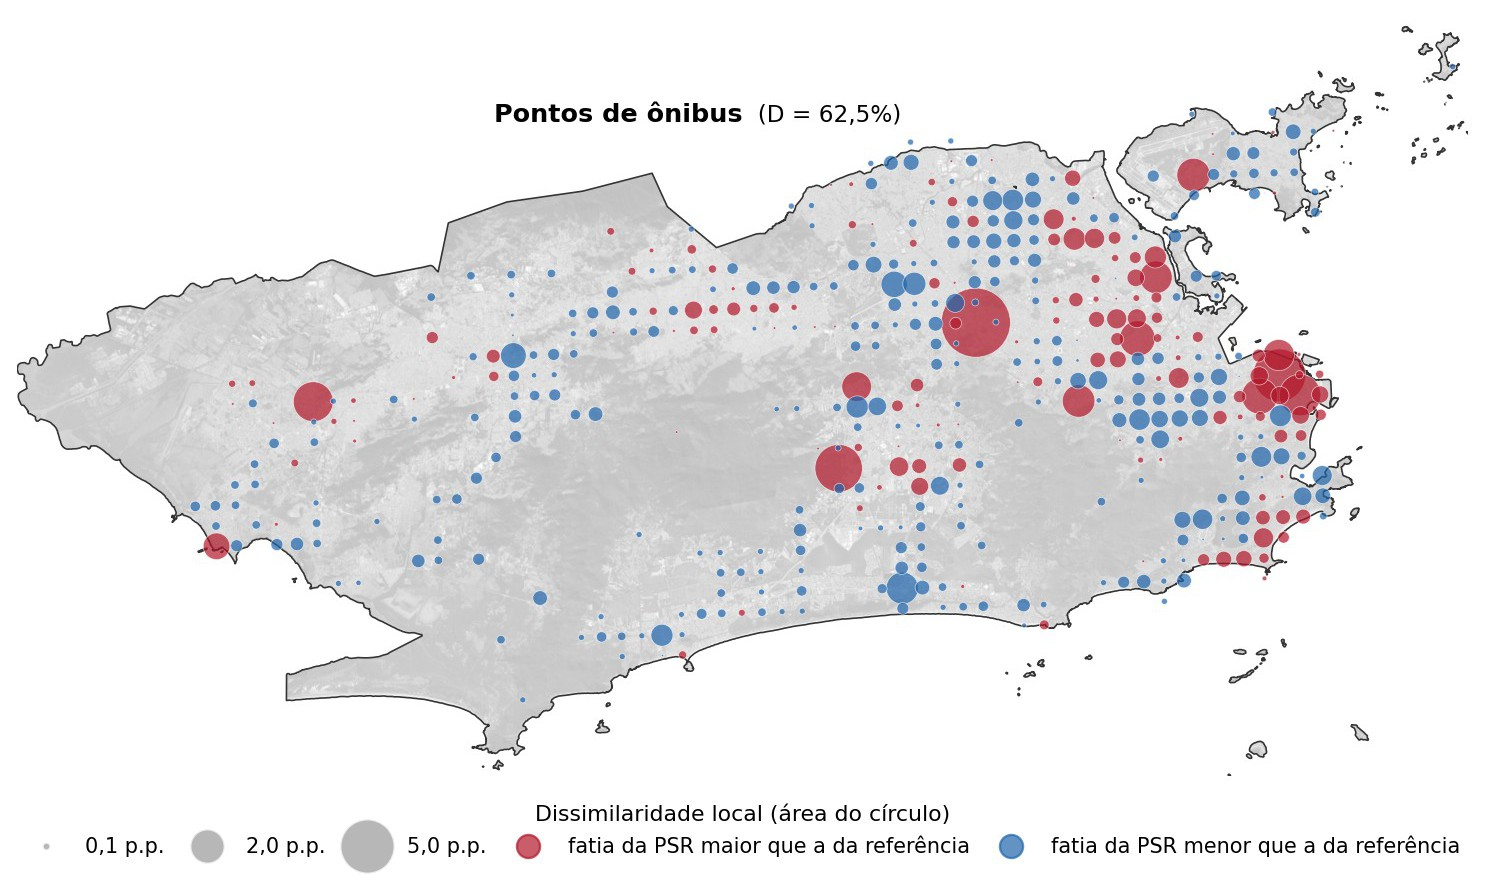
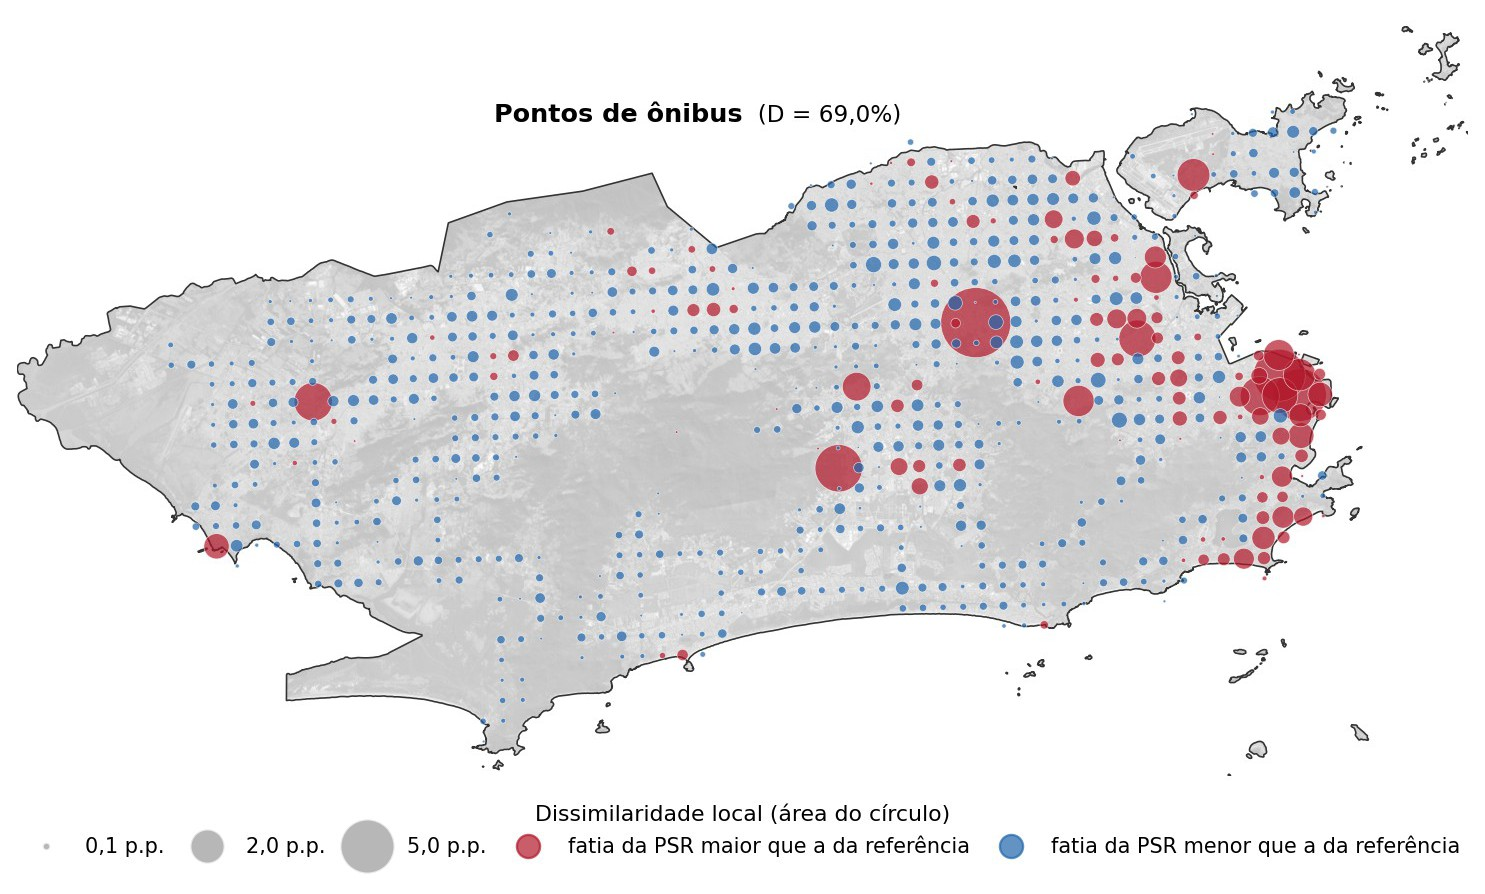
atualiza painel (2026-10-12)

diff --git a/paginas/quadrats.py b/paginas/quadrats.py
@@ -16,6 +16,7 @@ st.caption(
     "Células sem PSR e sem a referência ficam sem cor (só o fundo de satélite). População residente: células com ao menos um morador. "
     "Para não revelar a localização exata das cenas, o mapa mostra apenas as células.  \n"
     "**Fonte:** Elaboração própria a partir do censo de PSR de 2024 (IPP), das cenas de uso registradas no censo, "
-    "da Grade Estatística do Censo 2022 (IBGE), do OpenStreetMap (via NextGIS Data) e da camada Limite de Bairros (DATA.RIO), "
+    "da Grade Estatística do Censo 2022 (IBGE), dos pontos de parada do SPPO (DATA.RIO; pontos de ônibus), do OpenStreetMap "
+    "(via NextGIS Data; trem, metrô e VLT) e da camada Limite de Bairros (DATA.RIO), "
     "sobre imagem de satélite do Google em tons de cinza."
 )

diff --git a/paginas/dissimilaridade.py b/paginas/dissimilaridade.py
@@ -16,6 +16,7 @@ st.caption(
     "Dissimilaridade local: diferença, em pontos percentuais, entre a fatia da PSR e a fatia da referência em cada "
     "célula. A área do círculo é proporcional ao valor absoluto da diferença, na mesma escala em todos os mapas.  \n"
     "**Fonte:** Elaboração própria a partir do censo de PSR de 2024 (IPP), das cenas de uso registradas no censo, "
-    "da Grade Estatística do Censo 2022 (IBGE) e do OpenStreetMap (via NextGIS Data), sobre imagem de satélite do Google "
+    "da Grade Estatística do Censo 2022 (IBGE), dos pontos de parada do SPPO (DATA.RIO; pontos de ônibus) e do OpenStreetMap "
+    "(via NextGIS Data; trem, metrô e VLT), sobre imagem de satélite do Google "
     "em tons de cinza."
 )
